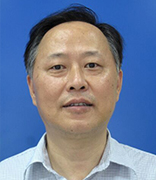
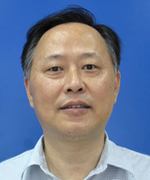
学校领导照片及样式更新

diff --git a/themes/default/skins/sitemaps.html b/themes/default/skins/sitemaps.html
@@ -14,9 +14,24 @@
             <h2 class="detail-title">网站地图</h2>
             <div class="detail-info">
                 <div class="system-box">
-                    <h4><img src="images/system_icon.jpg">学院导航：</h4>
+                    <h4><img src="images/system_icon.jpg">学校概况：</h4>
                     <ul class="system-list clefix">
-                        <li><a href="" target="_blank"></a></li>
+                        <li><a href="xxgk?id=gyqgajqmmpdhsgqrnbsupa" target="_blank">学校简介</a></li>
+                        <li><a href="xxld?id=jicgajqmjybjipuxuz1y3q" target="_blank">现任领导</a></li>
+                        <li><a href="http://www.ahtvu.ah.cn/test/jgsz.asp" target="_blank">机构设置</a></li>
+                        <li><a href="http://www.ahtvu.ah.cn/test/bgdh.asp" target="_blank">办公电话</a></li>
+                        <li><a href="http://wwww.ahtvu.ah.cn/zsxy/szjy/new/default.asp" target="_blank"> 思政园地</a></li>
+                        <li><a href="http://video.ahtvu.ah.cn/course/course.aspx?id=%u5B9E%u73B0%u65B0%u8DE8%u8D8A%u7684%u63A2%u7D22--%u5B89%u5FBD%u7535%u5927%u8BD5%u70B9%u5DE5%u4F5C%u5DE1%u793C&amp;cataid=%u7EFC%u5408" target="_blank">校情（视频）</a></li>
+                    </ul>
+                    <h4><img src="images/system_icon.jpg">党政管理机构：</h4>
+                    <ul class="system-list clefix">
+                        <li><a href="http://www.ahtvu.ah.cn/bgs" target="_blank">办公室(党办、校办、外办)</a></li>
+                        <li><a href="http://jwjc.ahtvu.ah.cn/default.asp?cataid=36" target="_blank">纪委办、监察审计处</a>（合署）</li>
+                        <li><a href="http://zzrs.ahtvu.ah.cn" target="_blank">组织部、人事处</a>（合署）</li>
+                        <li><a href="http://xctz.ahtvu.ah.cn" target="_blank">宣传部、统战部</a>（合署）</li>
+                        <li><a href="http://www.ahtvu.ah.cn/jyky1/index.htm" target="_blank"><span lang="EN-US"><span lang="EN-US">科研处</span></span></a></li>
+                        <li>财务处<a href="#" target="_self" onclick="MM_openBrWindow('wzdt/gzcx.htm','','width=310,height=230')">（工资查询系统）</a></li>
+                        <li><a href="http://video.ahtvu.ah.cn/course/course.aspx?id=%u5B9E%u73B0%u65B0%u8DE8%u8D8A%u7684%u63A2%u7D22--%u5B89%u5FBD%u7535%u5927%u8BD5%u70B9%u5DE5%u4F5C%u5DE1%u793C&amp;cataid=%u7EFC%u5408" target="_blank">校情（视频）</a></li>
                     </ul>
                 </div>
             </div>
@@ -24,3 +39,10 @@
     </div>
 </div>
 <widget id="footer"></widget>
+<script type="text/JavaScript">
+<!--
+function MM_openBrWindow(theURL,winName,features) { //v2.0
+  window.open(theURL,winName,features);
+}
+//-->
+</script>

diff --git a/themes/default/css/index.css b/themes/default/css/index.css
@@ -1296,9 +1296,9 @@ ul.space-list li a:hover { color:#2e72d7; }
 /*学校领导*/
 .xxld-box { padding: 25px; }
 .xxld-inner { margin-bottom: 12px; }
-.xxld-pic { width: 180px; height: 180px; float: left; }
+.xxld-pic { width: 150px; height: 180px; float: left; }
 .xxld-pic img { width: 100%; height: 100%;}
-.xxld-right { border: 1px solid #ddd; margin-left: 192px; }
+.xxld-right { border: 1px solid #ddd; margin-left: 162px; }
 .xxld-right h3 { font-size: 20px; color: #2994f7; padding: 15px; border-bottom: 1px solid #ddd; }
 .xxld-right h3 span { float: right; font-size: 18px; }
 .xxld-right p { font-size: 14px; padding: 15px; line-height: 33px; height: 97px; }
@@ -1309,6 +1309,6 @@ ul.space-list li a:hover { color:#2e72d7; }
 .system-box h4 img {vertical-align: middle; margin-right:5px;}
 .system-box strong { font-weight: bold;}
 ul.system-list {    margin-bottom: 10px; padding-bottom: 15px; border-bottom: 1px dashed #ddd;}
-ul.system-list li{ float: left; background: #ededed; margin: 5px 5px 0 0; padding: 5px; }
+ul.system-list li{ float: left; background: #ededed; margin: 5px 5px 0 0; padding: 5px 10px; }
 ul.system-list li a { color:#333; }
 ul.system-list li a:hover { color:#2e72d7; }

diff --git a/themes/default/widgets/portal_footer/view.html b/themes/default/widgets/portal_footer/view.html
@@ -24,7 +24,7 @@
                     <a href="http://ouchn.edu.cn/" target="_blank">国家开放大学门户</a>
                 </li>
                 <li>
-                    <a href="javascript:void(0)" target="_blank">【旧版回顾】</a>
+                    <a href="http://old.ahtvu.ah.cn" target="_blank">【旧版回顾】</a>
                 </li>
                 <li style="padding-left:0">
                     <a href="/cms" target="_blank">【后台管理】</a>

diff --git a/routes/index.js b/routes/index.js
@@ -187,4 +187,16 @@ router.get('/system', function (req, res, next) {
     next();
 });
 
+//网站地图
+router.get('/sitemaps', function (req, res, next) {
+
+    //set render html with widget
+    res.context = {};
+
+    res.context._r_widget = true
+    res.context._r_widget_skin = 'sitemaps.html';
+
+    next();
+});
+
 module.exports = router;
